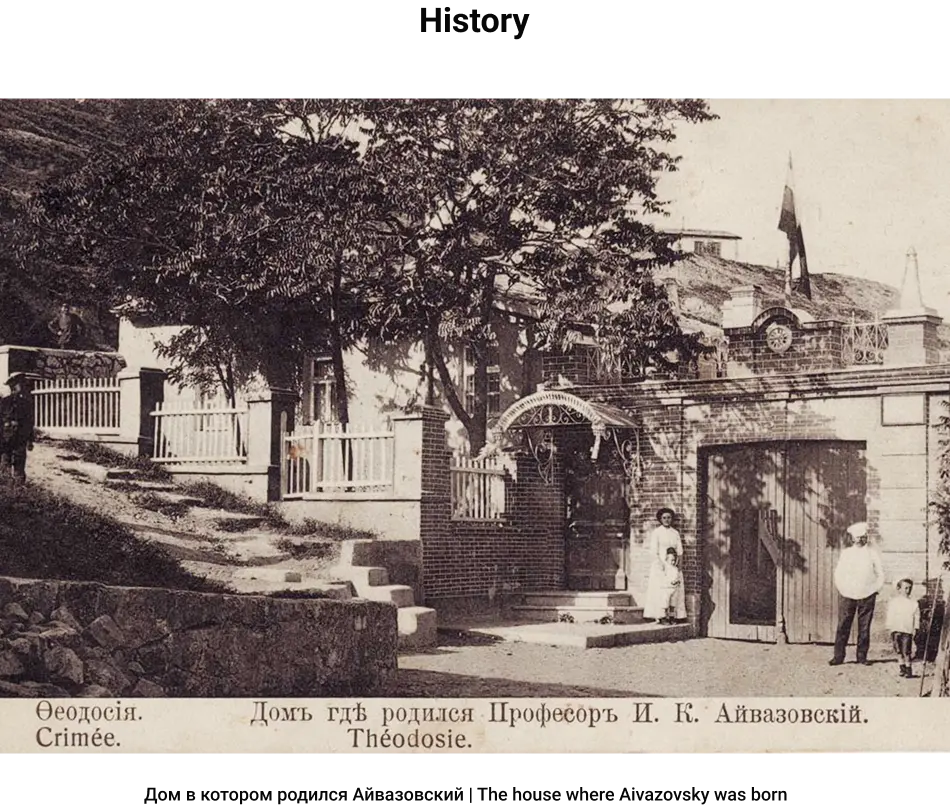
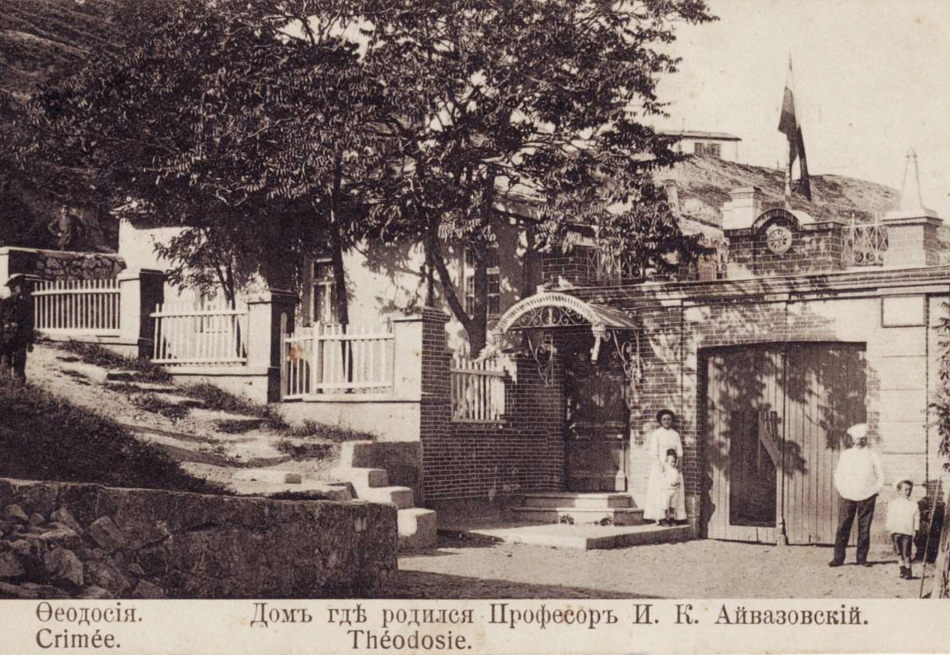
Added history section & changed history picture

diff --git a/index.html b/index.html
@@ -42,27 +42,35 @@
                 <img src="assets/webp/Home.webp" alt="photo of Aivazovsky" class="home-img">
             </div>
         </section>
-        <div class="container">
             <section class="about" aria-label="about section">
-                <h2 class="about-title" aria-label="about-title">
-                    About    
-                </h2>
-                <h3 class="about-subtitle-ru"aria-label="about subtitle ru">
-                    Ива́н Константи́нович Айвазо́вский – русский живописец-маринист армянского происхождения, коллекционер, меценат.
-                </h3>
-                <p class="about-description-ru" aria-label="about-descrition ru">
-                    Будучи художником с мировой известностью, Иван Константинович Айвазовский предпочитал жить и работать на своей родине — в Крыму. Айвазовский наиболее известен своими морскими пейзажами, которые составляют больше половины его работ. Художник считается одним из величайших маринистов всех времён.
-                </p> 
-                <hr class="divider" aria-label="divider">
-                <h3 class="about-subtitle-en"aria-label="about subtitle en">
-                    Ivan Konstantinovich Aivazovsky - Russian marine painter of Armenian origin, collector, philanthropist.
-                </h3>
-                <p class="about-description-en" aria-label="about-descrition-en">
-                    Being a world famous artist, Ivan Konstantinovich Aivazovsky preferred to live and work in his homeland - in the Crimea. Aivazovsky is best known for his seascapes, which make up more than half of his work. The artist is considered one of the greatest marine painters of all time.
-                </p>
+                <div class="container">
+                    <h2 class="about-title" aria-label="about-title">
+                        About    
+                    </h2>
+                    <h3 class="about-subtitle-ru"aria-label="about subtitle ru">
+                        Ива́н Константи́нович Айвазо́вский – русский живописец-маринист армянского происхождения, коллекционер, меценат.
+                    </h3>
+                    <p class="about-description-ru" aria-label="about-descrition ru">
+                        Будучи художником с мировой известностью, Иван Константинович Айвазовский предпочитал жить и работать на своей родине — в Крыму. Айвазовский наиболее известен своими морскими пейзажами, которые составляют больше половины его работ. Художник считается одним из величайших маринистов всех времён.
+                    </p> 
+                    <hr class="divider" aria-label="divider">
+                    <h3 class="about-subtitle-en"aria-label="about subtitle en">
+                        Ivan Konstantinovich Aivazovsky - Russian marine painter of Armenian origin, collector, philanthropist.
+                    </h3>
+                    <p class="about-description-en" aria-label="about-descrition-en">
+                        Being a world famous artist, Ivan Konstantinovich Aivazovsky preferred to live and work in his homeland - in the Crimea. Aivazovsky is best known for his seascapes, which make up more than half of his work. The artist is considered one of the greatest marine painters of all time.
+                    </p>
+                </div>
             </section>
-        </div>
-
+            <section class="history-section" aria-label="history section">
+                <div class="container">
+                    <h2 class="history-title">History</h2>
+                    <img src="assets/webp/History.webp" alt="photo" class="history-photo">
+                    <p class="history-description" aria-label="history description">
+                        Дом в котором родился Айвазовский | The house where Aivazovsky was born 
+                    </p>
+                </div>
+            </section>
     </main>
     <footer>
 

diff --git a/styles/history.css b/styles/history.css
@@ -1,0 +1,34 @@
+.history-section {
+    padding: 65px 0 70px; 
+    text-align: center;
+    color: var(--color-main-black);
+}
+.history-title{
+    margin: 0 0 75px;
+    font-size: 34px;
+    font-weight: 700;
+}
+.history-photo {
+    width:100%;
+    max-width: 950px;
+    max-height: 655px;
+    object-fit: cover;
+    margin: 60px 0 0 0 ;
+}
+.history-description {
+    margin: 30px 0 0 0 ;
+    font-size: 18px;
+    font-weight: 500;
+}
+
+@media(max-width: 480px){
+    .history-photo {
+        height: 480px;
+        }
+    .history-description {
+        font-size: 14px;
+        }
+    .history-section {
+    padding-top: 50px;
+}
+}

diff --git a/index.css b/index.css
@@ -2,4 +2,5 @@
 @import url('styles/variables.css');
 @import url('styles/header.css');
 @import url('styles/home.css');
-@import url(styles/about.css)
+@import url(styles/about.css);
+@import url(styles/history.css)

diff --git a/styles/basic.css b/styles/basic.css
@@ -29,7 +29,7 @@ a{
     color: unset;
 }
 
-h1, p{
+h1, h2, p{
     margin: 0;
 }
 
